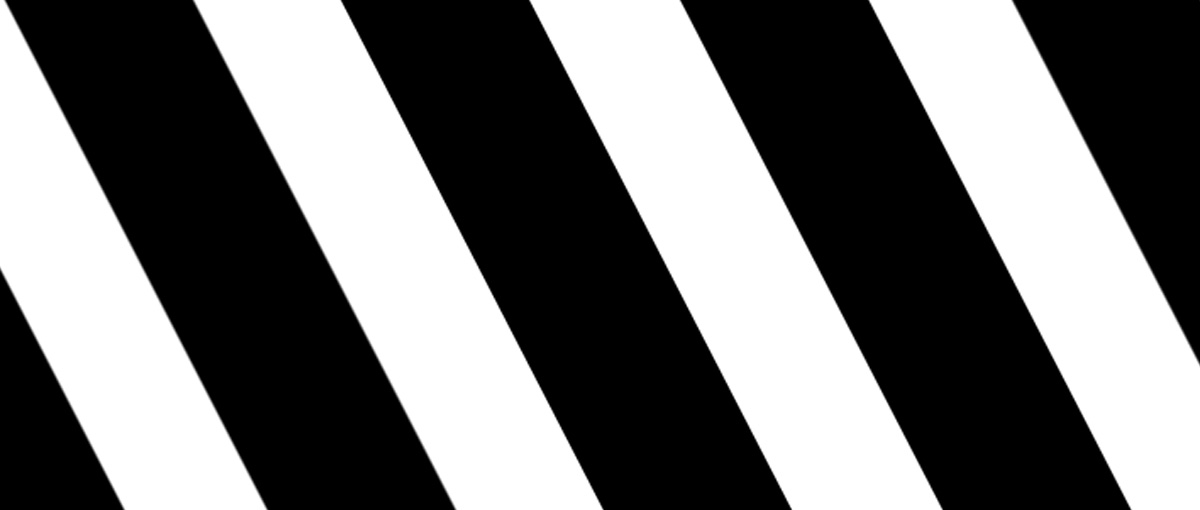
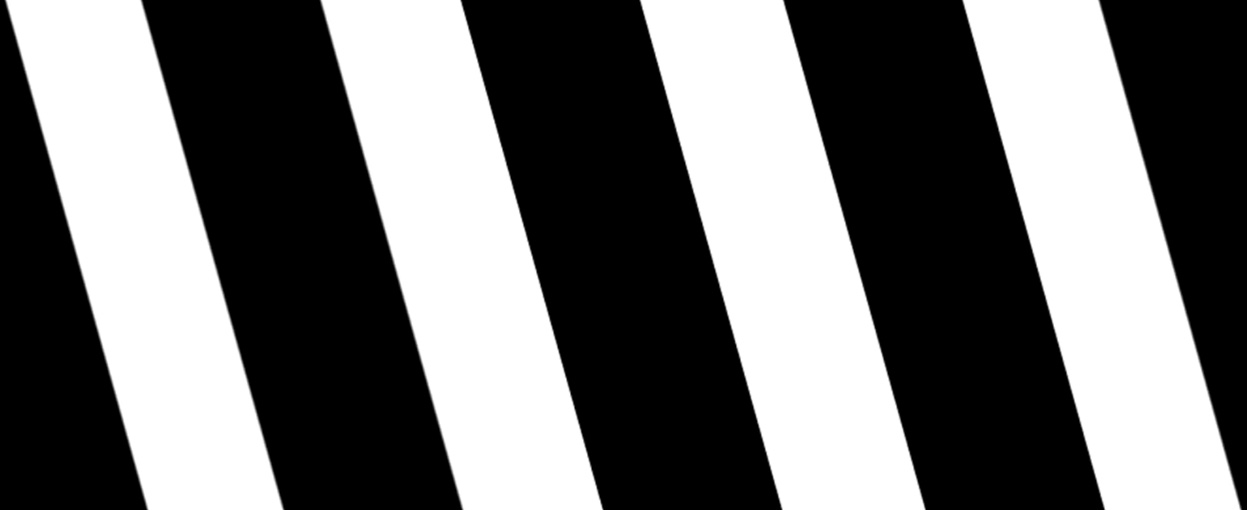
ref

diff --git a/style.css b/style.css
@@ -11,8 +11,8 @@ body {
   display: flex;
   justify-content: center;
   align-items: center;
-  min-height: 100vh;
-  background: url('hny1.jpg') no-repeat;
+  min-height: 95vh;
+  background: url('treeJPG.jpg') no-repeat;
   background-size: cover;
   background-position: center;
   box-sizing: border-box;
